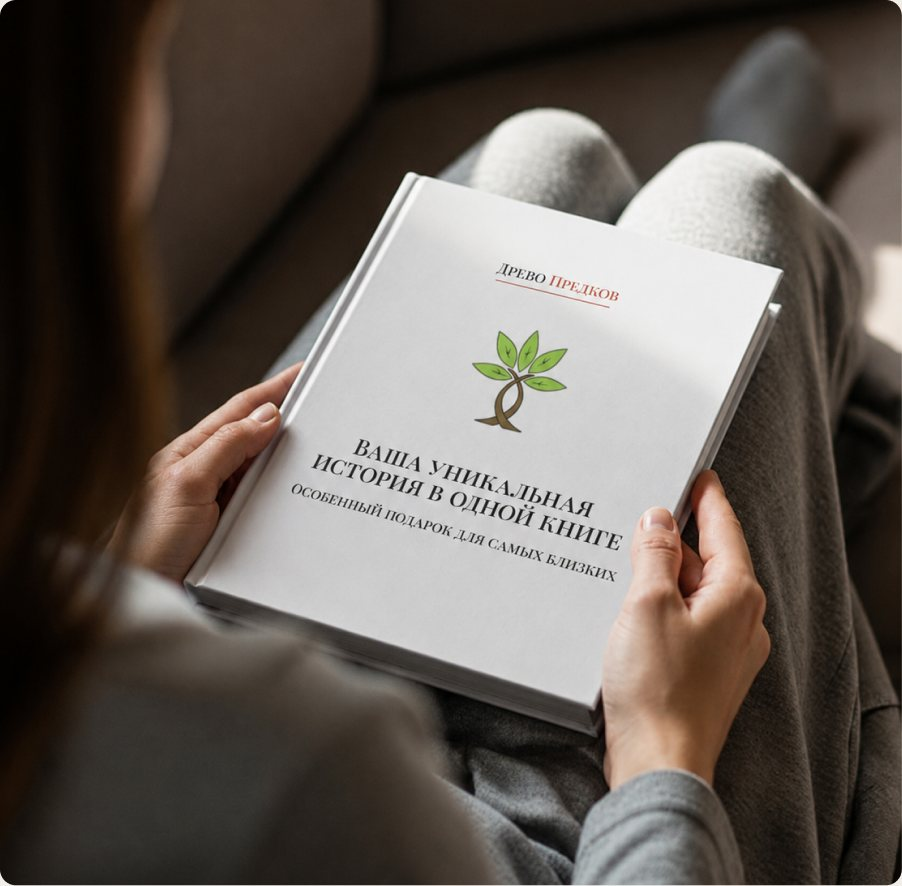
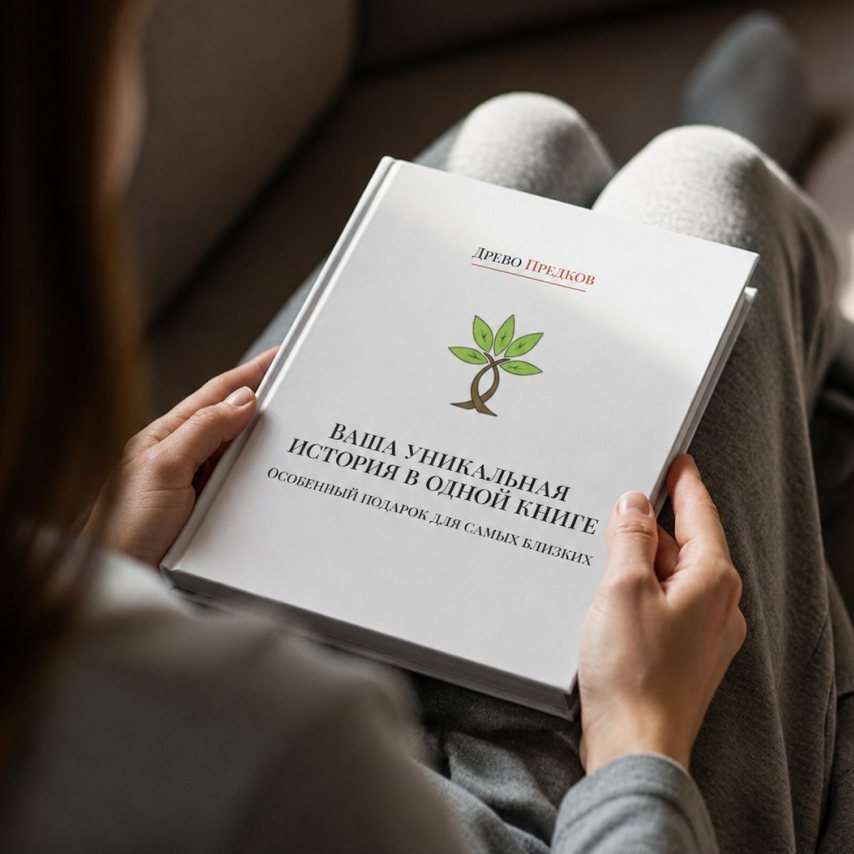
Book gallery: new right photo, two full-bleed square photos without radius
Claude-Session: https://claude.ai/code/session_01XBga8g7oiPbhFfgygAHQL5

diff --git a/css/style.css b/css/style.css
@@ -2305,8 +2305,9 @@ h4, .h4 { font-size: var(--fs-h4); font-weight: 500; line-height: 1.3; letter-sp
 
 /* примеры работ: два фото рядом, под ними подпись */
 .about-svc + .gallery { margin-top: var(--s-64); }   /* фото иллюстрируют «Об услуге» — стоят ближе к нему, чем обычный отступ между блоками */
-.gallery__grid { display: grid; grid-template-columns: 1fr 1fr; gap: var(--col-gap); }
-.gallery__grid img { width: 100%; height: auto; aspect-ratio: 903 / 885; object-fit: cover; border-radius: var(--radius); }
+/* два фото во всю ширину окна, каждое — половина экрана, без промежутков и скруглений */
+.gallery__grid { display: grid; grid-template-columns: 1fr 1fr; margin-inline: calc(50% - var(--vw) / 2); }
+.gallery__grid img { width: 100%; height: auto; aspect-ratio: 1 / 1; object-fit: cover; }
 .gallery__note { margin-top: var(--s-8); color: var(--muted); }   /* фото → подпись — 8px */
 
 /* «Этапы работы» на страницах книги и свитка — лента (см. «Этапы работы» выше): карточки шириной с карточку отзыва */
@@ -2377,7 +2378,7 @@ h4, .h4 { font-size: var(--fs-h4); font-weight: 500; line-height: 1.3; letter-sp
   .about-svc__cols { gap: 40px; }                     /* телефон: последний абзац → H3 — 40px */
   .dot-list li { gap: var(--s-16); }
   .dot-list li::before { width: 12px; height: 12px; }
-  .gallery__grid { grid-template-columns: 1fr; gap: var(--s-16); }
+  .gallery__grid { grid-template-columns: 1fr; }
   .promo { padding: var(--s-24); }
   .promo__btn { align-self: stretch; }
   .process__list { grid-template-columns: 1fr; row-gap: var(--s-32); }

diff --git a/rodoslovnaya-kniga.html b/rodoslovnaya-kniga.html
@@ -143,8 +143,8 @@
     <!-- ============ ПРИМЕРЫ РАБОТ: два фото, под ними подпись ============ -->
     <section class="gallery container section" aria-label="Примеры родословных книг">
       <div class="gallery__grid">
-        <img src="img/kniga-why.jpg" width="902" height="886" alt="Родословная книга «Ваша уникальная история в одной книге» в руках" loading="lazy" decoding="async">
-        <img src="img/kniga-example.jpg" width="903" height="885" alt="Разворот родословной книги: метрическая запись о рождении и её расшифровка" loading="lazy" decoding="async">
+        <img src="img/kniga-why.jpg" width="854" height="854" alt="Родословная книга «Ваша уникальная история в одной книге» в руках" loading="lazy" decoding="async">
+        <img src="img/kniga-example.jpg" width="1200" height="1200" alt="Родословная книга, раскрытая в подарочной коробке: страница о рождении предка с метрической записью" loading="lazy" decoding="async">
       </div>
       <p class="gallery__note">*Примеры выполненных работ. Дизайн каждой книги обсуждается и&nbsp;создаётся индивидуально.</p>
     </section>

diff --git a/index.html b/index.html
@@ -194,7 +194,7 @@
       <div class="svc__list">
         <a class="svc-card has-cursor" href="rodoslovnaya-kniga.html">
           <div class="svc-card__media">
-            <img src="img/kniga-why.jpg" width="902" height="886" alt="Родословная книга «Ваша уникальная история в одной книге» в руках" loading="lazy" decoding="async">
+            <img src="img/kniga-why.jpg" width="854" height="854" alt="Родословная книга «Ваша уникальная история в одной книге» в руках" loading="lazy" decoding="async">
             <div class="svc-card__bar">
               <ul class="tags svc-card__tags" aria-label="Сроки и стоимость">
                 <li class="tag">от&nbsp;1&nbsp;месяца</li>
